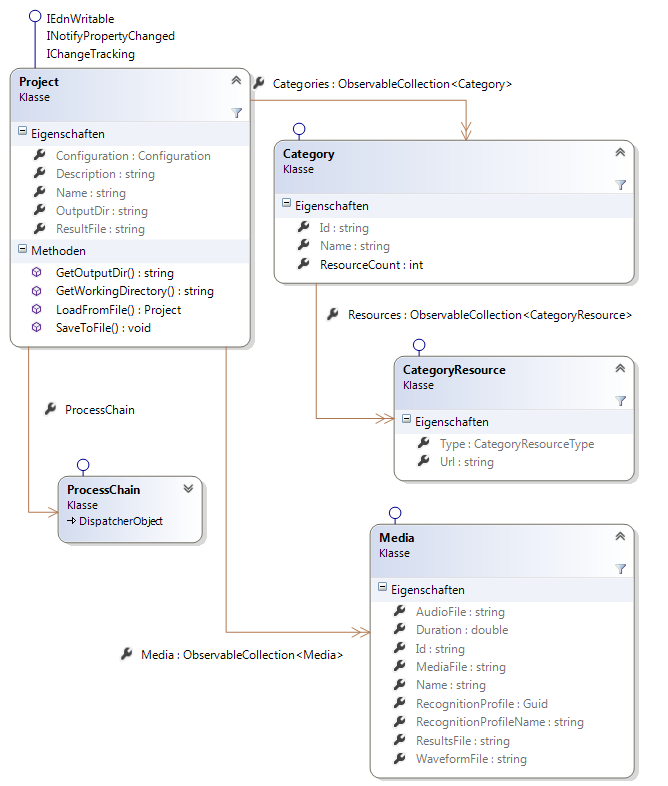
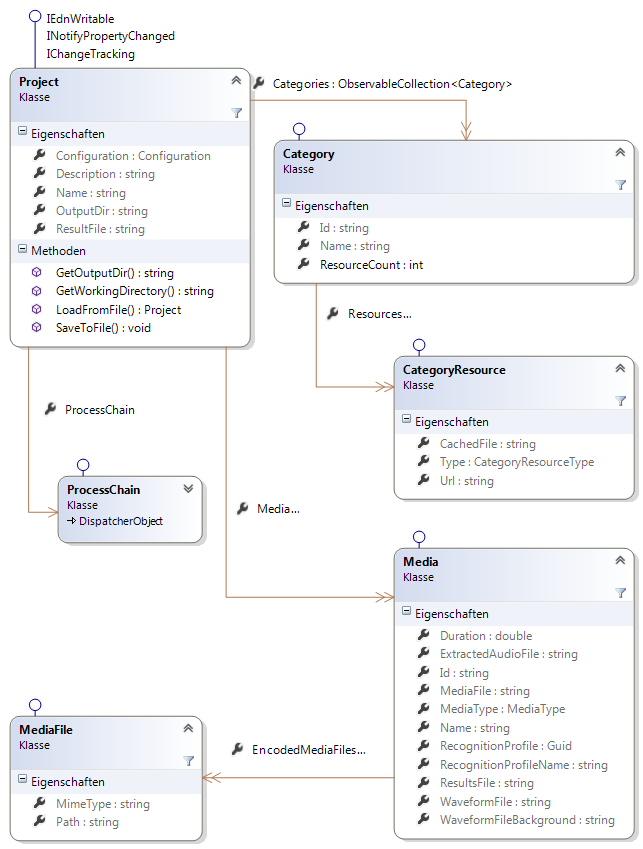
Transkodierung und Veränderungen an der Systemarchitektur dokumentiert

Changed region(s): [[0.0, 0.0, 0.9953, 1.0], [0.0, 0.8244, 0.5599, 1.0], [0.5288, 0.7939, 0.5599, 0.8244]]

diff --git a/docs/Systemarchitektur.md b/docs/Systemarchitektur.md
@@ -7,8 +7,8 @@ creator:
   name: Tobias Kiertscher
   affiliation: Fachhochschule Brandenburg
   email: kiertscher@fh-brandenburg.de
-version: 0.4.0
-date: 05.02.2014
+version: 0.5.0
+date: 10.02.2014
 lang: de
 ...
 
@@ -156,6 +156,10 @@ Dieser Namensraum enthält die Klassen für die verschiedenen Prozessschritte. J
 Die Klasse `ProcessChain` verwaltet den gesamten Prozess und übernimmt das Starten der Prozessschritte, wenn deren Vorgänger im Prozess erfolgreich abgeschlossen wurden (siehe [#img:ui-process-chain]). 
 
 ![#img:ui-process-chain Die zentrale Steuerung für den Prozess][ui-process-chain]
+
+Wann welche Prozessschritte gestartet werden, hängt von deren Abhängigkeiten ab. Ein Prozessschritt wird genau dann gestartet, wenn alle Prozessschritte, von denen er abhängig ist, erfolgreich ausgeführt wurden. Prozessschritte ohne Abhängigkeiten werden mit dem Start des Gesamtprozesses gestartet. In [#img:ui-process-deps] sind die Abhängigkeiten zwischen den Prozessschritten visualisiert.   
+
+![#img:ui-process-deps Die Abhängigkeiten zwischen den Prozessschritten][ui-process-deps]
 
 #### `de.fhb.oll.mediacategorizer.tools`
 
@@ -486,6 +490,7 @@ Die folgenden Abbildungen zeigen mögliche Ergebnisse.
 [architecture]: images/diagrams/Architecture.png
 [ui-ns]: images/diagrams/Namespaces.png
 [ui-ui]: images/diagrams/UI.png
+[ui-process-deps]: images/diagrams/ProcessDependencies.png
 [ui-project]: images/diagrams/Project.png
 [ui-configuration]: images/diagrams/Configuration.png
 [ui-iprocess]: images/diagrams/IProcess.png

diff --git a/docs/Benutzerhandbuch.md b/docs/Benutzerhandbuch.md
@@ -7,8 +7,8 @@ creator:
   name: Tobias Kiertscher
   affiliation: Fachhochschule Brandenburg
   email: kiertscher@fh-brandenburg.de
-version: 0.4.0
-date: 05.02.2014
+version: 0.5.0
+date: 10.02.2014
 lang: de
 ...
 
@@ -152,6 +152,8 @@ Die Seite *Parameter* führt eine Reihe von Einstellungen auf, die den Prozess s
 * *Transkodierung*
 	* **Medien transkodieren**  
 	  Gibt an, ob das Kopieren der Medien in die Ausgabe übersprungen werden soll.
+	* **Video in Audio umwandeln**  
+	  Gibt an, ob bei Videomedien nur die Tonspur in die Ergebniswebseite eingebunden werden soll.
 	* **Video-Breite**  
 	  Gibt die Breite des Video-Bildes an. Die Höhe ergibt sich aus dem Seitenverhältnis des Originalvideos.
 	* **Audio-Format MP3**  

diff --git a/docs/release-notes.md b/docs/release-notes.md
@@ -4,6 +4,11 @@ subtitle: Release Notes
 lang: de
 ...
 
+# 0.5.0 {#v0.5.0}
+
+* Transkodieren der Originalmedien in Browser-kompatible Formate (MP3, MP4, OGG, WebM)
+* Umwandeln von Video- in Audiomedien für die Ergebnisausgabe
+
 # 0.4.0 {#v0.4.0}
 
 * Unterstützung für das Laden von Kategorieressourcen hinter einem HTTP-Proxy

diff --git a/docs/intermediate-data-structures.md b/docs/intermediate-data-structures.md
@@ -7,8 +7,8 @@ creator:
   name: Tobias Kiertscher
   affiliation: Brandenburg University of Applied Sciences
   email: kiertscher@fh-brandenburg.de
-version: 0.4.0
-date: 2014-02-05
+version: 0.5.0
+date: 2014-02-10
 lang: en
 ...
 

diff --git a/docs/Webseitenstruktur.md b/docs/Webseitenstruktur.md
@@ -7,8 +7,8 @@ creator:
   name: Tobias Kiertscher
   affiliation: Fachhochschule Brandenburg
   email: kiertscher@fh-brandenburg.de
-version: 0.4.0
-date: 05.02.2014
+version: 0.5.0
+date: 10.02.2014
 lang: de
 ...
 

diff --git a/docs/Sprecherprofilverwaltung.md b/docs/Sprecherprofilverwaltung.md
@@ -7,8 +7,8 @@ creator:
   role: Autor
   affiliation: Fachhochschule Brandenburg
   email: kiertscher@fh-brandenburg.de
-version: 0.3.0
-date: 31.01.2014
+version: 0.5.0
+date: 10.02.2014
 lang: de
 ...
 
